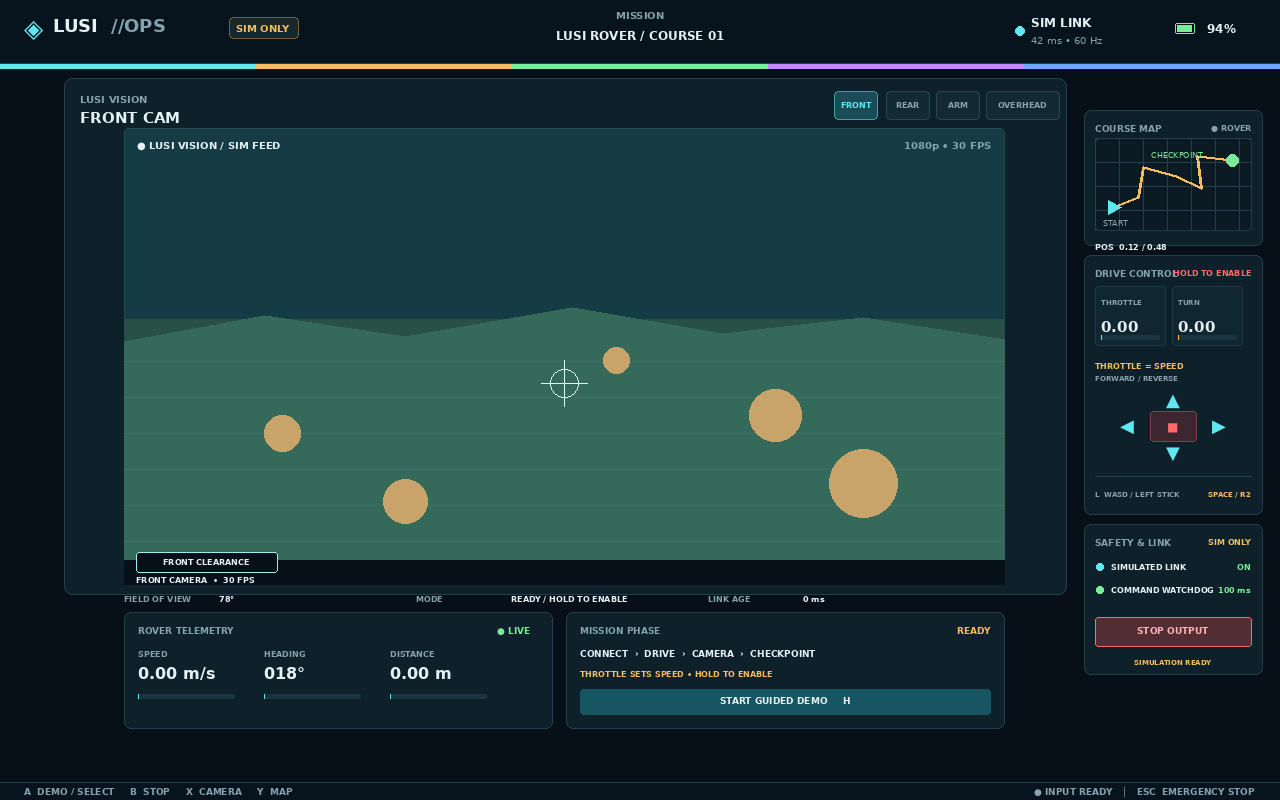
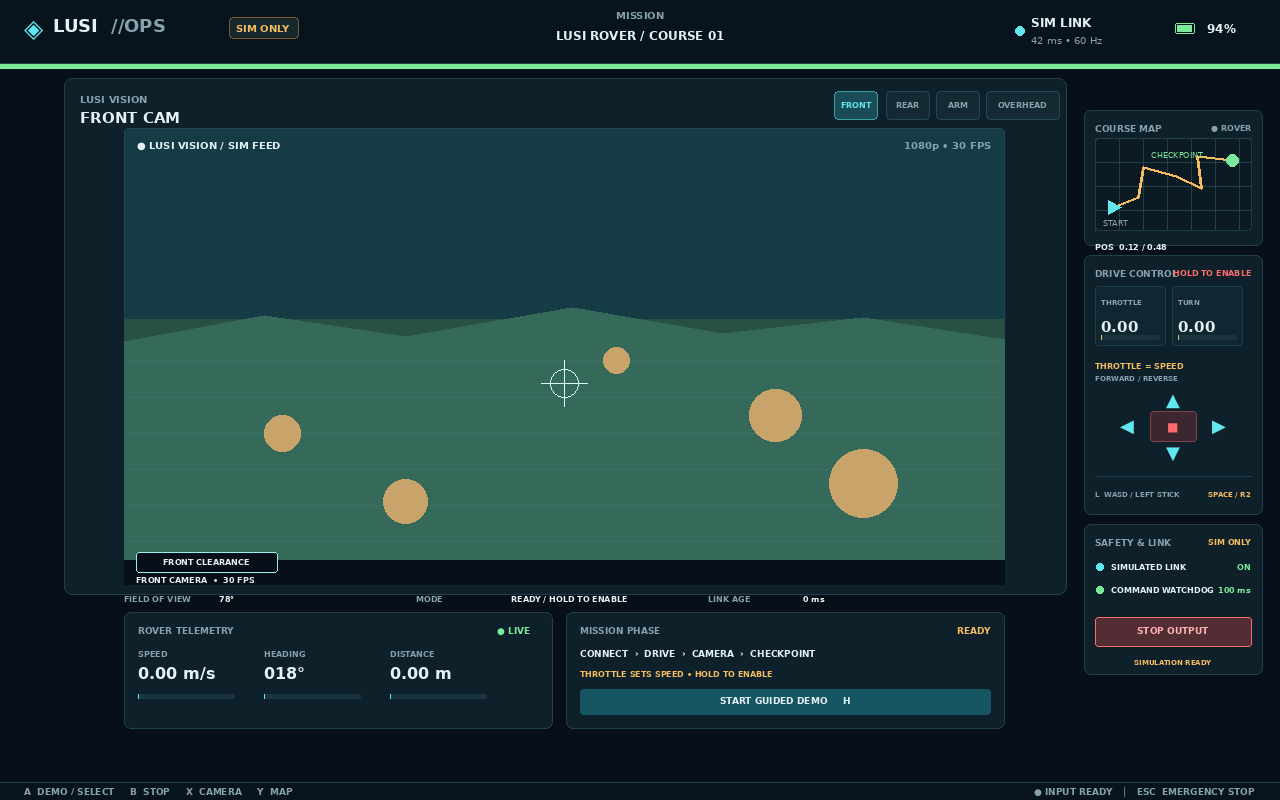
Refine LUSI status visor and publish audited demo

Changed region(s): [[0.5938, 0.0625, 1.0, 0.0938], [0.0, 0.0625, 0.4062, 0.0938]]

diff --git a/deck-demo/src/ui/DashboardRenderer.js b/deck-demo/src/ui/DashboardRenderer.js
@@ -41,11 +41,9 @@ export function createRenderer() {
     byId('connection-dot')?.classList.toggle('offline', !state.connected);
     setText('battery', `${Math.round(state.battery)}%`); setText('camera-name', cameras[state.camera]); setText('speed', `${fmt(Math.abs(state.drive.speed), 2)} m/s`); setText('heading', `${Math.round(state.pose.heading).toString().padStart(3,'0')}°`); setText('distance', `${fmt(state.distance, 2)} m`); setText('link-age', `${Math.round(state.linkAgeMs)} ms`); setText('command-state', state.safetyStop ? 'SAFETY STOP' : (state.deadman ? 'DRIVE ACTIVE' : 'READY / HOLD TO ENABLE'));
     byId('no-downlink-image')?.classList.toggle('visible', !state.connected);
-    const commsVisor = byId('module-comms-visor'); commsVisor?.classList.remove('green', 'yellow', 'red'); commsVisor?.classList.add(state.connected ? 'green' : (state.linkAgeMs > 500 ? 'red' : 'yellow'));
-    setText('module-comms-detail', state.connected ? `SIM LINK / ${state.latencyMs} ms` : (state.linkAgeMs > 500 ? 'DISCONNECTED / ZEROED' : 'COMMS LOST / ZEROED'));
-    setText('module-drive-detail', state.deadman ? 'DRIVE ACTIVE' : 'HOLD TO ENABLE'); byId('module-drive')?.classList.toggle('active', state.deadman);
-    const moduleSafety = byId('module-safety')?.querySelector('.visor'); moduleSafety?.classList.toggle('red', state.safetyStop); moduleSafety?.classList.toggle('green', !state.safetyStop);
-    document.querySelectorAll('[data-phase]').forEach((node) => { const phase = Number(node.dataset.phase); node.classList.toggle('current', phase === (state.demo.active ? state.demo.step : 1)); node.classList.toggle('done', state.demo.complete || (state.demo.active && phase < state.demo.step)); });
+    const visor = byId('status-visor');
+    const visorState = state.safetyStop ? 'red' : (!state.connected ? (state.linkAgeMs > 500 ? 'red' : 'yellow') : (state.deadman ? 'cyan' : (state.demo.active ? ({ 1: 'blue', 2: 'amber', 3: 'cyan', 4: 'green' }[state.demo.step] || 'amber') : 'green')));
+    visor?.classList.remove('green', 'amber', 'cyan', 'blue', 'yellow', 'red'); visor?.classList.add(visorState);
     const stop = byId('stop-button'); stop?.classList.toggle('latched', state.safetyStop); stop.textContent = state.safetyStop ? 'CLEAR STOP' : 'STOP OUTPUT';
     const event = byId('event-line'); event.textContent = state.event;
     byId('sim-link-toggle')?.classList.toggle('on', state.connected);

diff --git a/deck-demo/src/styles.css b/deck-demo/src/styles.css
@@ -27,18 +27,15 @@ button { font: inherit; color: inherit; border: 0; cursor: pointer; }
 .battery-icon:after { content: ""; position: absolute; right: -4px; top: 2px; width: 2px; height: 4px; background: var(--green); }
 
 /* The central 16:9 feed is the primary surface; the rail is intentionally narrow. */
-.status-strip { height: 5px; padding: 0; display: flex; align-items: stretch; gap: 1px; border-bottom: 1px solid var(--line); background: #091820; }
-.module-state { height: 5px; min-width: 0; flex: 1; padding: 0; display: block; border: 0; border-radius: 0; background: #10242d; }
-.module-state span, .module-state small { display: none; }
-.visor { width: 100%; height: 5px; display: block; border-radius: 0; background: var(--cyan); box-shadow: none; }
-.visor.green { background: var(--green); box-shadow: 0 0 8px #7bea9a66; }
-.visor.amber { background: var(--amber); box-shadow: 0 0 8px #f6bd6066; }
-.visor.blue { background: #6ea8ff; box-shadow: 0 0 8px #6ea8ff66; }
-.visor.violet { background: #c38bff; box-shadow: 0 0 8px #c38bff66; }
-.visor.yellow { background: #f4d35e; box-shadow: 0 0 8px #f4d35e88; }
-.visor.red { background: var(--red); box-shadow: 0 0 9px #ff6b6b99; animation: visor-pulse 1s ease-in-out infinite; }
+.status-strip { height: 5px; padding: 0; border-bottom: 1px solid var(--line); background: #091820; }
+.status-visor { display: block; width: 100%; height: 5px; background: var(--green); }
+.status-visor.green { background: var(--green); }
+.status-visor.amber { background: var(--amber); }
+.status-visor.cyan { background: var(--cyan); }
+.status-visor.blue { background: #6ea8ff; }
+.status-visor.yellow { background: #f4d35e; }
+.status-visor.red { background: var(--red); animation: visor-pulse 1s ease-in-out infinite; }
 @keyframes visor-pulse { 50% { opacity: .38; transform: scale(.78); } }
-.phase-strip { display: none; }
 .phase-strip span { padding: 5px 7px; color: var(--dim); font-size: 8px; letter-spacing: .05em; border-radius: 2px; white-space: nowrap; }
 .phase-strip span.current { color: var(--cyan); background: #17424b; }
 .phase-strip span.done { color: var(--green); }

diff --git a/deck-demo/src/index.html b/deck-demo/src/index.html
@@ -10,14 +10,7 @@
     <div class="mission"><span class="eyebrow">MISSION</span><strong>LUSI ROVER / COURSE 01</strong></div>
     <div class="top-stats"><span id="connection-dot" class="status-dot"></span><span><strong id="connection-label">SIM LINK</strong><small id="connection-detail">42 ms • 60 Hz</small></span><span class="battery"><span class="battery-icon"></span><strong id="battery">94%</strong></span></div>
   </header>
-  <section class="status-strip" aria-label="LUSI module and mission state">
-    <div class="module-state" id="module-vision"><i class="visor cyan"></i><span>LUSI VISION</span><small>FRONT FEED</small></div>
-    <div class="module-state" id="module-drive"><i class="visor amber"></i><span>DRIVE CMD</span><small id="module-drive-detail">HOLD TO ENABLE</small></div>
-    <div class="module-state" id="module-comms"><i id="module-comms-visor" class="visor green"></i><span>COMMS</span><small id="module-comms-detail">SIM LINK / 42 ms</small></div>
-    <div class="module-state" id="module-safety"><i class="visor violet"></i><span>WATCHDOG</span><small>100 ms / ZERO ON FAULT</small></div>
-    <div class="module-state mode-state"><i class="visor blue"></i><span>ROUTE</span><small>SIMULATION</small></div>
-    <div class="phase-strip" aria-label="Mission phase"><span data-phase="1" class="current">1 CONNECT</span><span data-phase="2">2 DRIVE</span><span data-phase="3">3 CAMERA</span><span data-phase="4">4 CHECKPOINT</span></div>
-  </section>
+  <section class="status-strip" aria-label="Current LUSI mission state"><i id="status-visor" class="status-visor green"></i></section>
   <main class="cockpit">
     <section class="workspace">
       <article class="panel camera-panel">

diff --git a/deck-demo/tools_render_previews.py b/deck-demo/tools_render_previews.py
@@ -10,7 +10,7 @@ def font(size, bold=False):
     return ImageFont.truetype(p, size) if p.exists() else ImageFont.load_default()
 def txt(d, xy, s, size=12, color=INK, bold=False, anchor=None): d.text(xy, s, font=font(size,bold), fill=color, anchor=anchor)
 def box(d, xy, r=8, fill=PANEL, outline=LINE): d.rounded_rectangle(xy, radius=r, fill=fill, outline=outline, width=1)
-def base(d, alt=False):
+def base(d, alt=False, demo=False):
     d.rectangle((0,0,W,H), fill=BG); d.rectangle((0,0,W,64), fill="#08141d"); d.line((0,63,W,63), fill=LINE)
     txt(d,(24,28),"◈",25,CYAN,True,"lm"); txt(d,(53,26),"LUSI",18,INK,True,"lm"); txt(d,(111,26),"//OPS",18,DIM,True,"lm")
     d.rounded_rectangle((229,17,298,38),radius=4,fill="#17282c",outline="#765b36"); txt(d,(263,28),"SIM ONLY",10,AMBER,True,"mm")
@@ -18,8 +18,8 @@ def base(d, alt=False):
     d.ellipse((1015,26,1024,35),fill=CYAN); txt(d,(1031,15),"SIM LINK",12,INK,True); txt(d,(1031,34),"42 ms • 60 Hz",10,DIM)
     d.rounded_rectangle((1175,23,1194,33),radius=2,outline=GREEN); d.rectangle((1177,25,1191,31),fill=GREEN); txt(d,(1207,28),"94%",12,INK,True,"lm")
     d.rectangle((0,64,W,69),fill="#091820"); d.line((0,68,W,68),fill=LINE)
-    colors=[CYAN,AMBER,RED if alt else GREEN,RED if alt else (195,139,255),(110,168,255)]
-    for i,color in enumerate(colors): d.rectangle((i*W/5,64,(i+1)*W/5-1,68),fill=color)
+    visor_color = RED if alt else (AMBER if demo else GREEN)
+    d.rectangle((0,64,W,68),fill=visor_color)
 def camera(d,x,y,w,h,alt=False):
     box(d,(x,y,x+w,y+h),5,fill="#0a1820",outline="#244954"); d.rectangle((x+1,y+1,x+w-1,y+h-1),fill="#153b44")
     horizon=y+h*.42; d.rectangle((x+1,y+h*.42,x+w-1,y+h-1),fill="#285044")
@@ -40,7 +40,7 @@ def mapview(d,x,y,w,h):
     d.line(pts,fill=AMBER,width=3,joint="curve"); d.ellipse((pts[-1][0]-6,pts[-1][1]-6,pts[-1][0]+6,pts[-1][1]+6),fill=GREEN)
     d.polygon([(x+w*.12+8,y+h*.76),(x+w*.12-5,y+h*.76-7),(x+w*.12-5,y+h*.76+7)],fill=CYAN); txt(d,(x+8,y+h-12),"START",8,DIM); txt(d,(x+w-100,y+12),"CHECKPOINT",8,GREEN)
 def render(path, alt=False, demo=False):
-    im=Image.new("RGB",(W,H),BG); d=ImageDraw.Draw(im); base(d,alt)
+    im=Image.new("RGB",(W,H),BG); d=ImageDraw.Draw(im); base(d,alt,demo)
     # A centered 16:9 camera surface with a slim utility rail on the right.
     box(d,(64,78,1066,594)); txt(d,(80,93),"LUSI VISION",10,DIM,True); txt(d,(80,109),"ARM CAM" if alt else "FRONT CAM",15,INK,True)
     for i,(lab,lx) in enumerate((("FRONT",834),("REAR",886),("ARM",936),("OVERHEAD",986))):

diff --git a/docs/LUSI_STEAM_DECK_STYLE_GUIDE.md b/docs/LUSI_STEAM_DECK_STYLE_GUIDE.md
@@ -29,7 +29,7 @@ The X post [“never expected =rand() would be so valuable”](https://x.com/p_m
 - Design to the full 1280×800 screen and reclaim space from decorative chrome. Use layered composition: the 2D camera feed is the base layer, safety and camera cues are small overlays, and controls are a compact utility layer.
 - Keep the live feed visually dominant and centered in the full composition. Prefer a 16:9 feed that uses as much of the display as practical, with a narrow utility rail or overlay; do not let a control rail become the primary surface.
 - The drive demo feed is a 2D view from a front mounted rover camera. It is not a 3D rover scene or a free camera visualizer.
-- Put a five pixel high module and phase status ribbon directly below the top bar and run it across the full screen width. It is a quick status scan, not a detailed status panel. Give each connected module a stable color and show the current phase through segment color or a small visor marker. Put expanded labels and explanations in a focused overlay or utility view.
+- Put one continuous five pixel high status visor directly below the top bar and run it across the full screen width. It is a quick scan, not a detailed status panel: never show simultaneous module-colored segments. Change the single visor color with current purpose/phase and put expanded labels and explanations in the compact rail or feed overlay.
 - Put map, link/watchdog, and stop/recovery state in a slim rail or edge HUD.
 - Keep telemetry and mission phase in a bottom ribbon directly associated with the feed.
 - Every panel must answer one operator question: “What do I see?”, “Where am I?”, “What command is active?”, or “What failed/how do I recover?”
@@ -63,9 +63,9 @@ Conceptual references to *The Martian* and *Project Hail Mary* mean disciplined 
 | #f6bd60 | Mission cue, pending action, telemetry emphasis |
 | #ff6b6b | Fault, stop, lost link |
 
-The module and phase strip uses these semantic states:
+The single status visor uses these semantic states:
 
-Normal quick-scan segments are distinct and stable: LUSI Vision cyan, Drive command amber, Comms green, Watchdog violet, and Simulation route blue. A lost Comms state changes its segment to yellow; a disconnected Comms state changes it to pulsing red. A watchdog fault changes its segment to pulsing red. Expanded labels live in the utility rail or focused overlay, not in the five-pixel ribbon.
+Ready/healthy is stable green; connect phase is blue; drive-gate/pending is amber; active camera or drive is cyan; comms loss is yellow; disconnected or safety stop is pulsing red. Only one color is visible at a time. Expanded module detail lives in the utility rail or focused overlay, never in the five-pixel ribbon.
 
 | State | Visual treatment | Meaning |
 | --- | --- | --- |

diff --git a/docs/STEAM_DECK_UI_RESEARCH.md b/docs/STEAM_DECK_UI_RESEARCH.md
@@ -24,6 +24,8 @@ Date: 2026-09-07. Scope: simulation and UI design only. LUSI Rover Ops does not 
 
 ## Implementable 1280×800 specification
 
+The strip directly below the header is a single continuous 5 px status visor, never simultaneous module segments. It is green when ready/healthy, blue for connect phase, amber for a drive gate or pending phase, cyan for active camera/drive, yellow for comms loss, and pulsing red for disconnection or safety stop. Detailed module text remains in the compact utility rail and feed overlay.
+
 The screen is divided into a 64 px header, a 690 px cockpit area, and a 46 px footer. The cockpit uses 18 px outer margins and a 14 px gutter:
 
 | Region | Size | Purpose |
